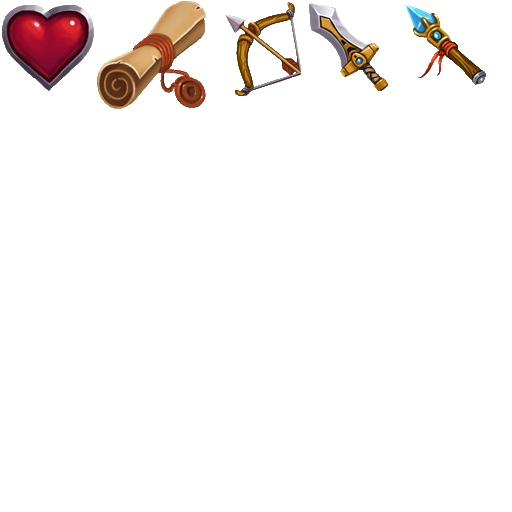
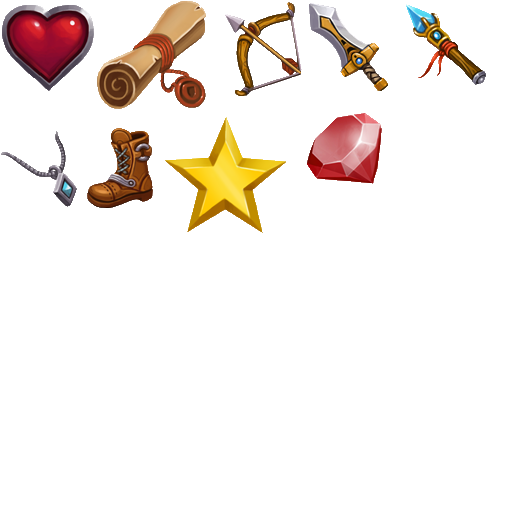
0.8.1263

diff --git a/gamestream_flutter/lib/gamestream/games/mmo/ui/mmo_ui_dialogs.dart b/gamestream_flutter/lib/gamestream/games/mmo/ui/mmo_ui_dialogs.dart
@@ -64,27 +64,26 @@ extension MMOUIDialogs on MmoGame {
       playerTalentsChangedNotifier,
           (_) {
 
-        final dialog = Container(
+        final dialog = GSContainer(
           width: 500,
+          rounded: true,
           child: Column(
             children: [
-              GSContainer(
-                child: Row(
-                  mainAxisAlignment: MainAxisAlignment.spaceBetween,
-                  children: [
-                    Container(
-                        margin: EdgeInsets.only(left: 20),
-                        child: buildDialogTitle('TALENTS ${playerTalentPoints.value}')
-                    ),
-                    buildButtonClose(action: toggleTalentsDialog),
-                  ],
-                ),
+              Row(
+                mainAxisAlignment: MainAxisAlignment.spaceBetween,
+                children: [
+                  Container(
+                      margin: EdgeInsets.only(left: 20),
+                      child: buildDialogTitle('TALENTS ${playerTalentPoints.value}')
+                  ),
+                  buildButtonClose(action: toggleTalentsDialog),
+                ],
               ),
               GSContainer(
                   height: gamestream.engine.screen.height - 270,
                   alignment: Alignment.topLeft,
                   child: GridView.count(
-                      crossAxisCount: 3,
+                      crossAxisCount: 4,
                       children: MMOTalentType.values
                           .map(buildTalent)
                           .toList(growable: false))),

diff --git a/gamestream_flutter/lib/gamestream/games/mmo/ui/talent_type_src.dart b/gamestream_flutter/lib/gamestream/games/mmo/ui/talent_type_src.dart
@@ -34,5 +34,29 @@ class TalentTypeSrc {
         80, // width
         81, // height
     ],
+    MMOTalentType.Treasure_Slots: <double> [
+        1, // x,
+        131, // y
+        76, // width
+        76, // height
+    ],
+    MMOTalentType.Speedy: <double> [
+        87, // x,
+        128, // y
+        66, // width
+        80, // height
+    ],
+    MMOTalentType.Lucky: <double> [
+        165, // x,
+        117, // y
+        121, // width
+        116, // height
+    ],
+    MMOTalentType.Vampire: <double> [
+        307, // x,
+        113, // y
+        75, // width
+        71, // height
+    ],
   };
 }

diff --git a/gamestream_server/lib/games/mmo/mmo_player.dart b/gamestream_server/lib/games/mmo/mmo_player.dart
@@ -127,6 +127,8 @@ class MmoPlayer extends IsometricPlayer {
       health += treasure.health;
     }
 
+    final talentHealthLevel = talents[MMOTalentType.Healthy.index];
+    health += talentHealthLevel * MMOTalentType.Healthy_Health_Per_Level;
     return health;
   }
 
@@ -917,6 +919,11 @@ class MmoPlayer extends IsometricPlayer {
      talents[talent.index]++;
      talentPoints -= cost;
      writePlayerTalents();
+
+     if (talent == MMOTalentType.Healthy){
+       health = maxHealth;
+     }
+
      writePlayerHealth();
   }
 

diff --git a/gamestream_flutter/lib/gamestream/games/mmo/mmo_ui.dart b/gamestream_flutter/lib/gamestream/games/mmo/mmo_ui.dart
@@ -476,7 +476,7 @@ extension MMOUI on MmoGame {
               alignment: Alignment.center,
               children: [
                 Positioned(
-                  top: 32,
+                  top: 16,
                   child: MMOTalentIcon(talentType: talentType, size: 50),
                 ),
                 Positioned(

diff --git a/bleed-common/lib/src/mmo/mmo_talent_type.dart b/bleed-common/lib/src/mmo/mmo_talent_type.dart
@@ -21,4 +21,6 @@ enum MMOTalentType {
       this.maxLevel = 1,
       this.levelCostMultiplier = 1,
    });
+
+   static const Healthy_Health_Per_Level = 5;
 }

diff --git a/gamestream_flutter/lib/common/src/mmo/mmo_talent_type.dart b/gamestream_flutter/lib/common/src/mmo/mmo_talent_type.dart
@@ -21,4 +21,6 @@ enum MMOTalentType {
       this.maxLevel = 1,
       this.levelCostMultiplier = 1,
    });
+
+   static const Healthy_Health_Per_Level = 5;
 }

diff --git a/gamestream_server/lib/common/src/mmo/mmo_talent_type.dart b/gamestream_server/lib/common/src/mmo/mmo_talent_type.dart
@@ -21,4 +21,6 @@ enum MMOTalentType {
       this.maxLevel = 1,
       this.levelCostMultiplier = 1,
    });
+
+   static const Healthy_Health_Per_Level = 5;
 }

diff --git a/bleed-common/lib/src/version.dart b/bleed-common/lib/src/version.dart
@@ -1,4 +1,4 @@
-const version = '0.8.1261';
+const version = '0.8.1263';
 
 
 

diff --git a/gamestream_flutter/lib/common/src/version.dart b/gamestream_flutter/lib/common/src/version.dart
@@ -1,4 +1,4 @@
-const version = '0.8.1261';
+const version = '0.8.1263';
 
 
 

diff --git a/gamestream_server/lib/common/src/version.dart b/gamestream_server/lib/common/src/version.dart
@@ -1,4 +1,4 @@
-const version = '0.8.1261';
+const version = '0.8.1263';
 
 
 
